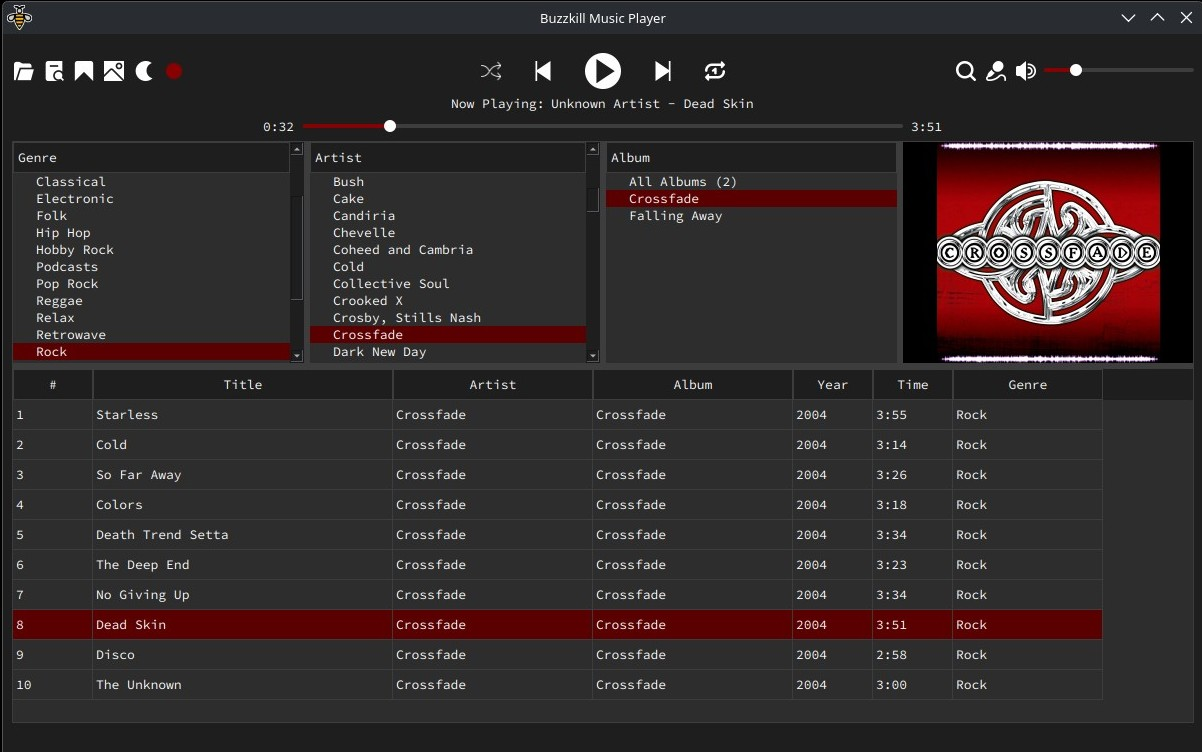
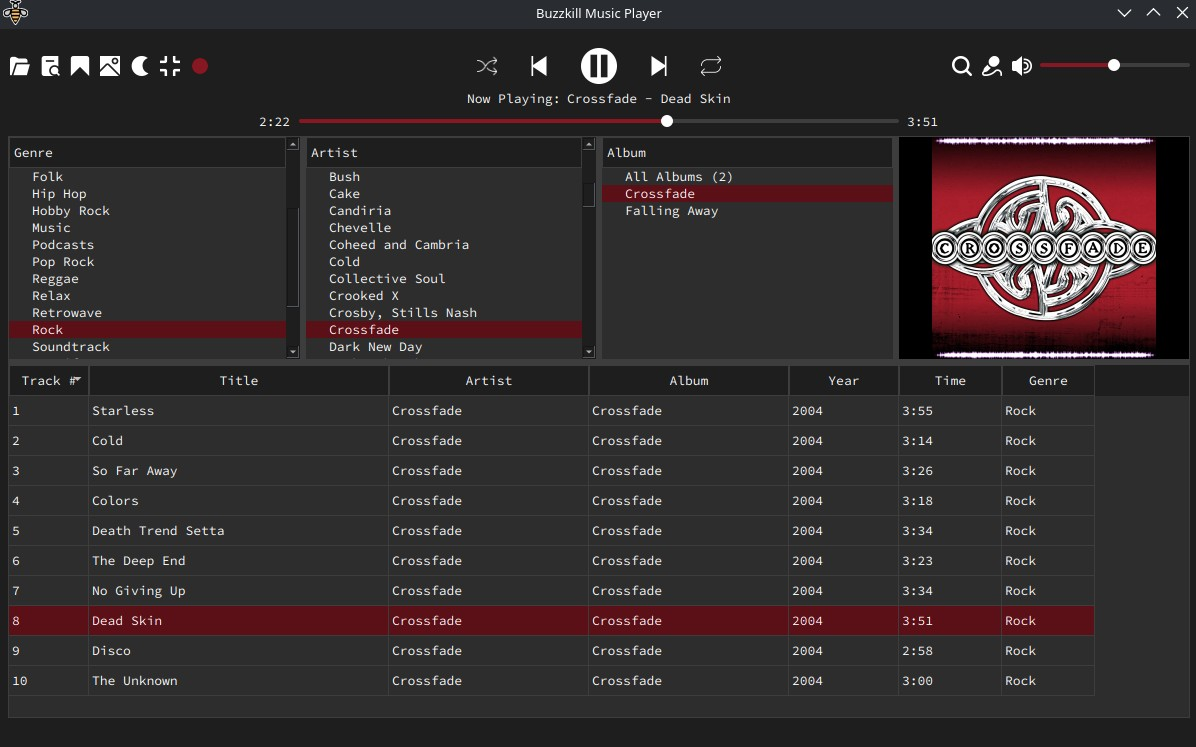
Fixed Now Playing artist name bug. Updated screenshot.

diff --git a/buzzkill-music-player.py b/buzzkill-music-player.py
@@ -1313,12 +1313,29 @@ class MusicPlayer(QMainWindow):
 		row = item.row()
 		song_path = self.song_table.item(row, 0).data(Qt.ItemDataRole.UserRole + 1)
 
-		# Build playlist from current song table
+		# Build playlist from current song table to preserve current sorting/filtering
 		self.current_playlist = []
 		for i in range(self.song_table.rowCount()):
-			# We need to store the path in UserRole+1 consistently
+			# Extract all metadata from table columns to maintain consistency
 			path = self.song_table.item(i, 0).data(Qt.ItemDataRole.UserRole + 1)
-			self.current_playlist.append({'path': path}) # Keep it consistent with expected dict format
+			track_num = self.song_table.item(i, 0).text()
+			title = self.song_table.item(i, 1).text()
+			artist = self.song_table.item(i, 2).text()
+			album = self.song_table.item(i, 3).text()
+			year = self.song_table.item(i, 4).text()
+			duration = self.song_table.item(i, 5).data(Qt.ItemDataRole.UserRole)
+			genre = self.song_table.item(i, 6).text()
+
+			self.current_playlist.append({
+				'path': path,
+				'tracknumber': track_num,
+				'title': title,
+				'artist': artist,
+				'album': album,
+				'year': year,
+				'duration': duration,
+				'genre': genre
+			})
 
 		self.current_track_index = row
 		self.play_song(song_path)
